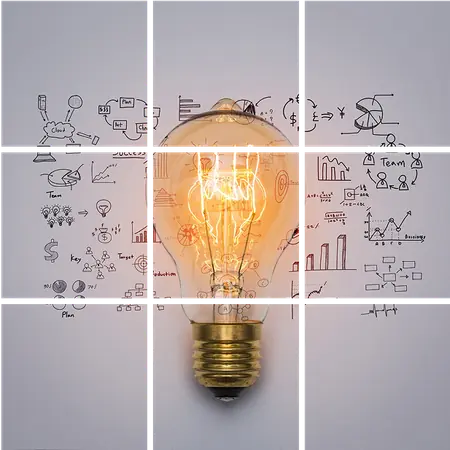
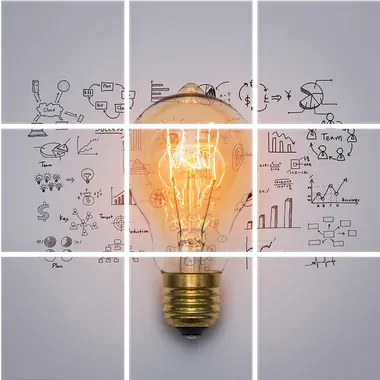
Improved TBT

diff --git a/src/app/(justflip)/(static)/about/components/About.tsx b/src/app/(justflip)/(static)/about/components/About.tsx
@@ -43,7 +43,7 @@ const About = () => {
           fill
           priority
           fetchPriority="high"
-          sizes="(max-width: 768px) 100vw, (max-width: 1540px) 100vw, 1540px"
+          sizes="(max-width: 768px) 100vw, (max-width: 1200px) 1000px, 1000px"
           className="object-cover scale-105 transition-transform duration-1000 hover:scale-100"
         />
         
@@ -144,7 +144,7 @@ const About = () => {
           alt="About Us Background"
           fill
           loading="lazy"
-          sizes="(max-width: 768px) 100vw, (max-width: 1540px) 100vw, 1540px"
+          sizes="(max-width: 768px) 100vw, (max-width: 1200px) 960px, 960px"
           className="object-cover"
         />
         
